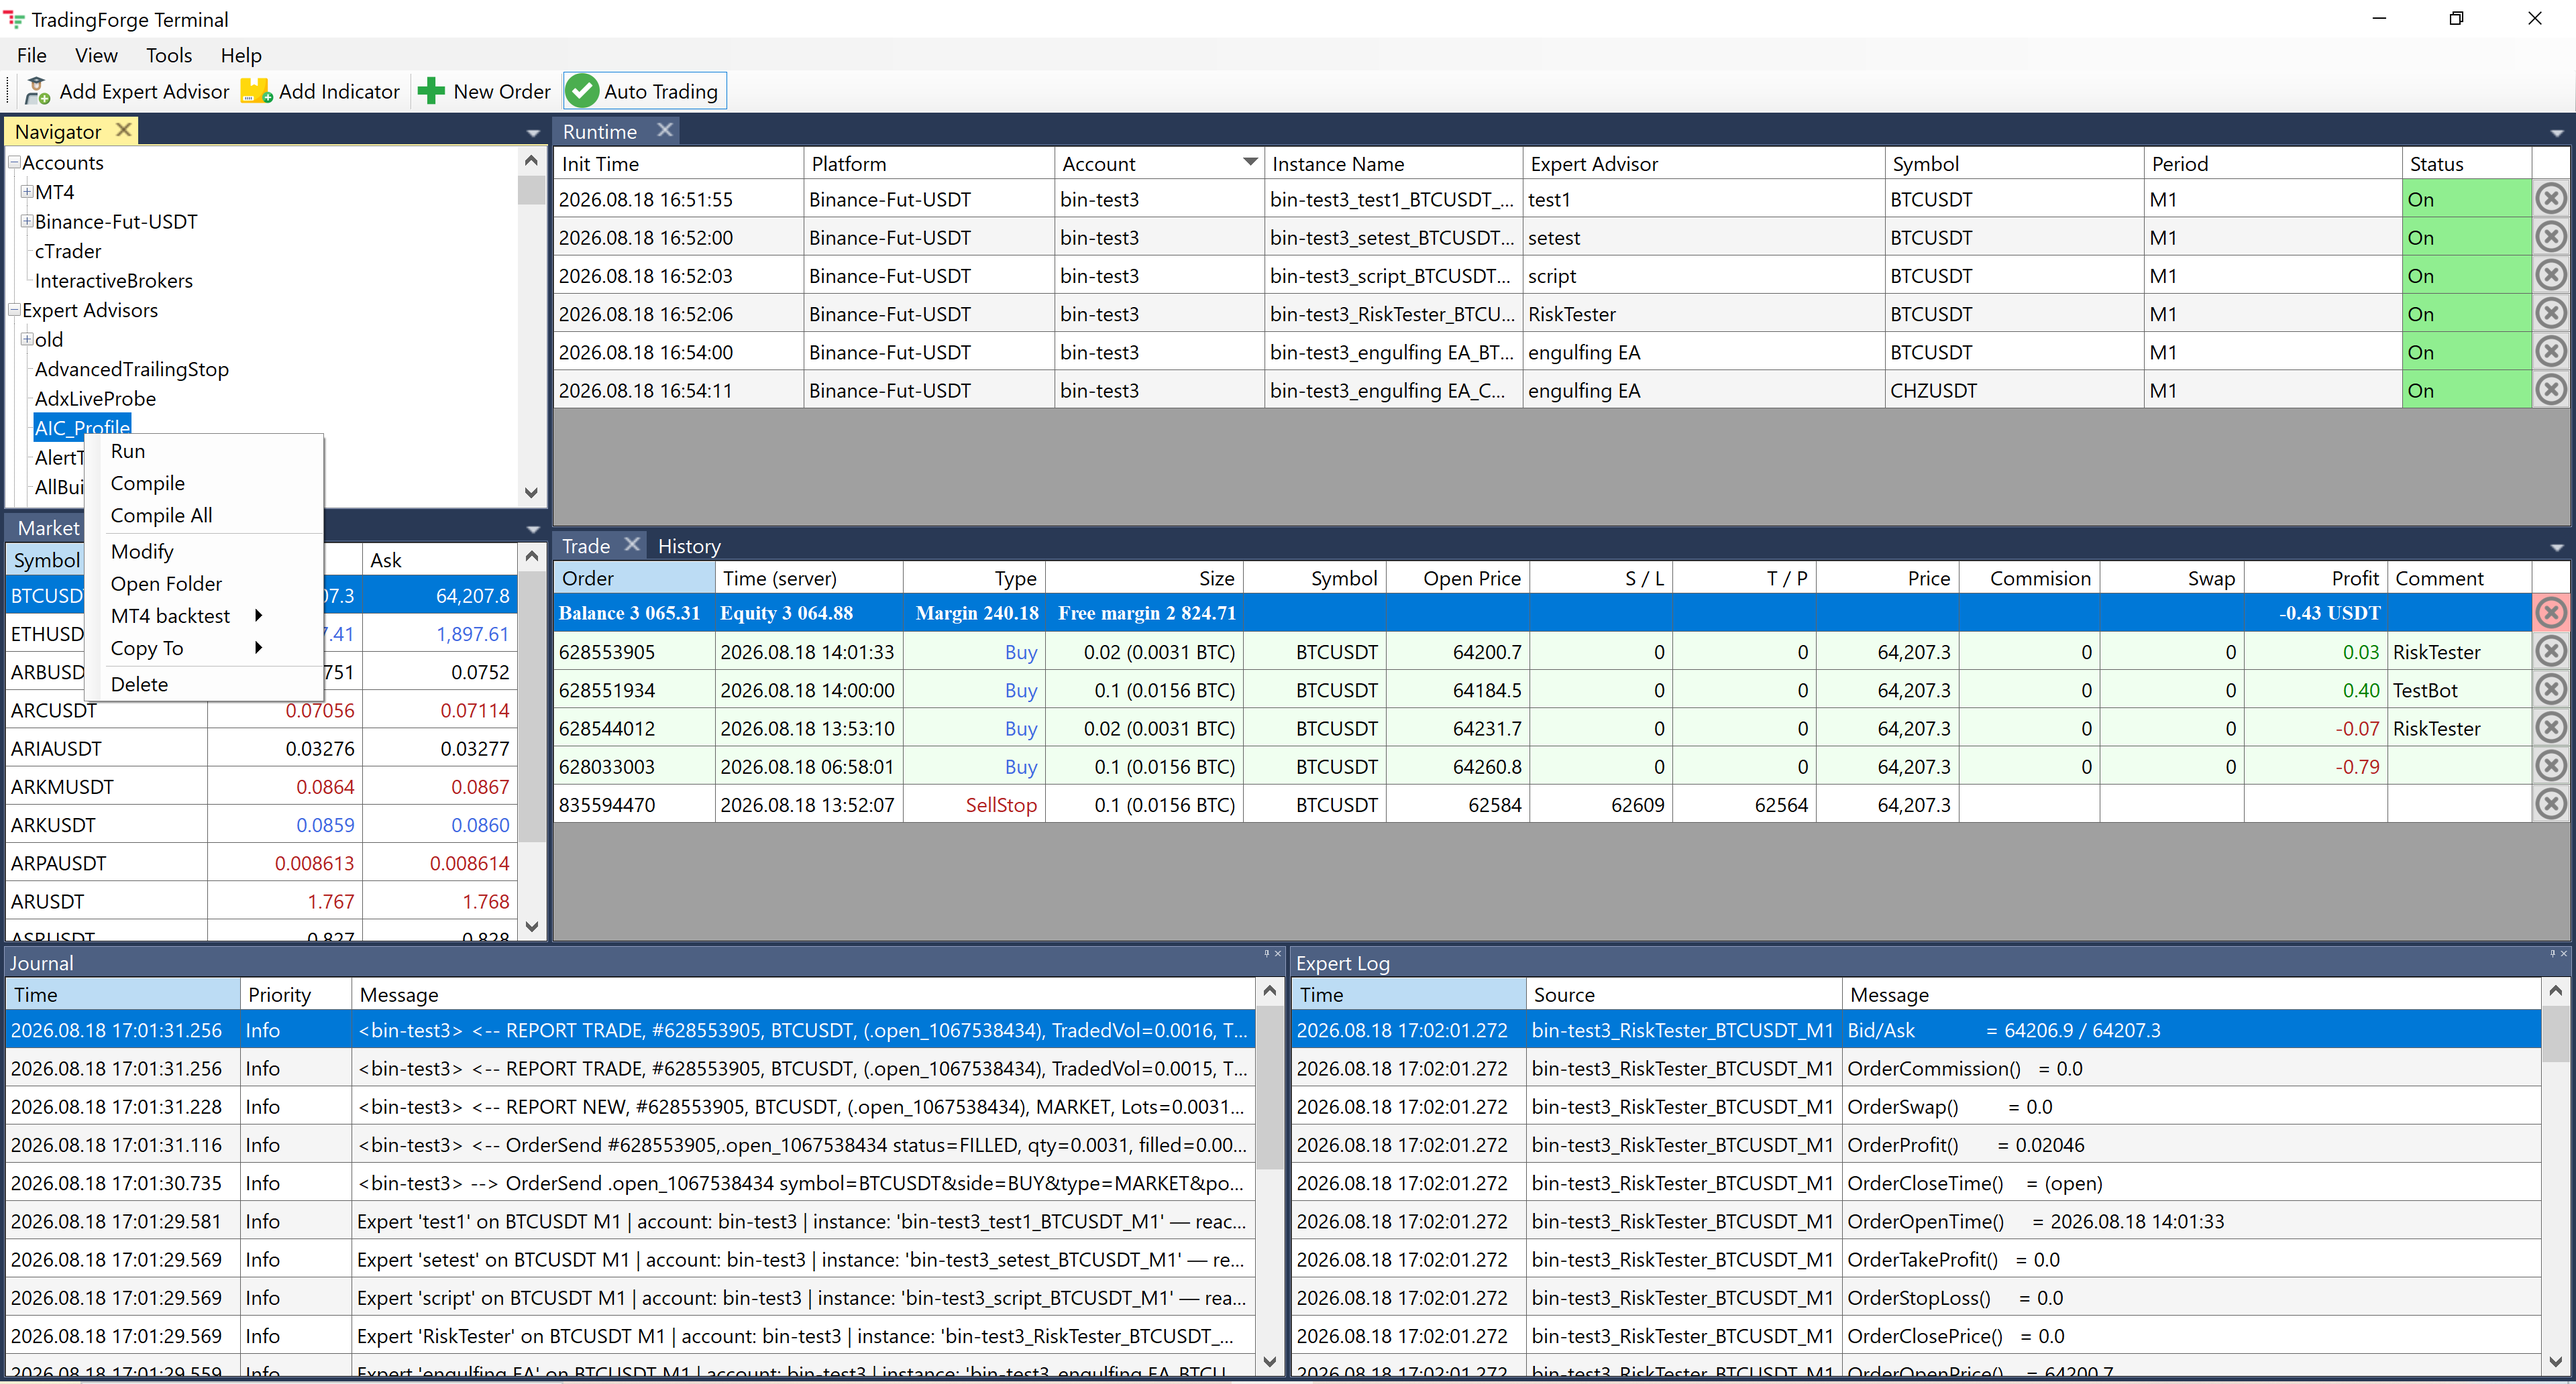
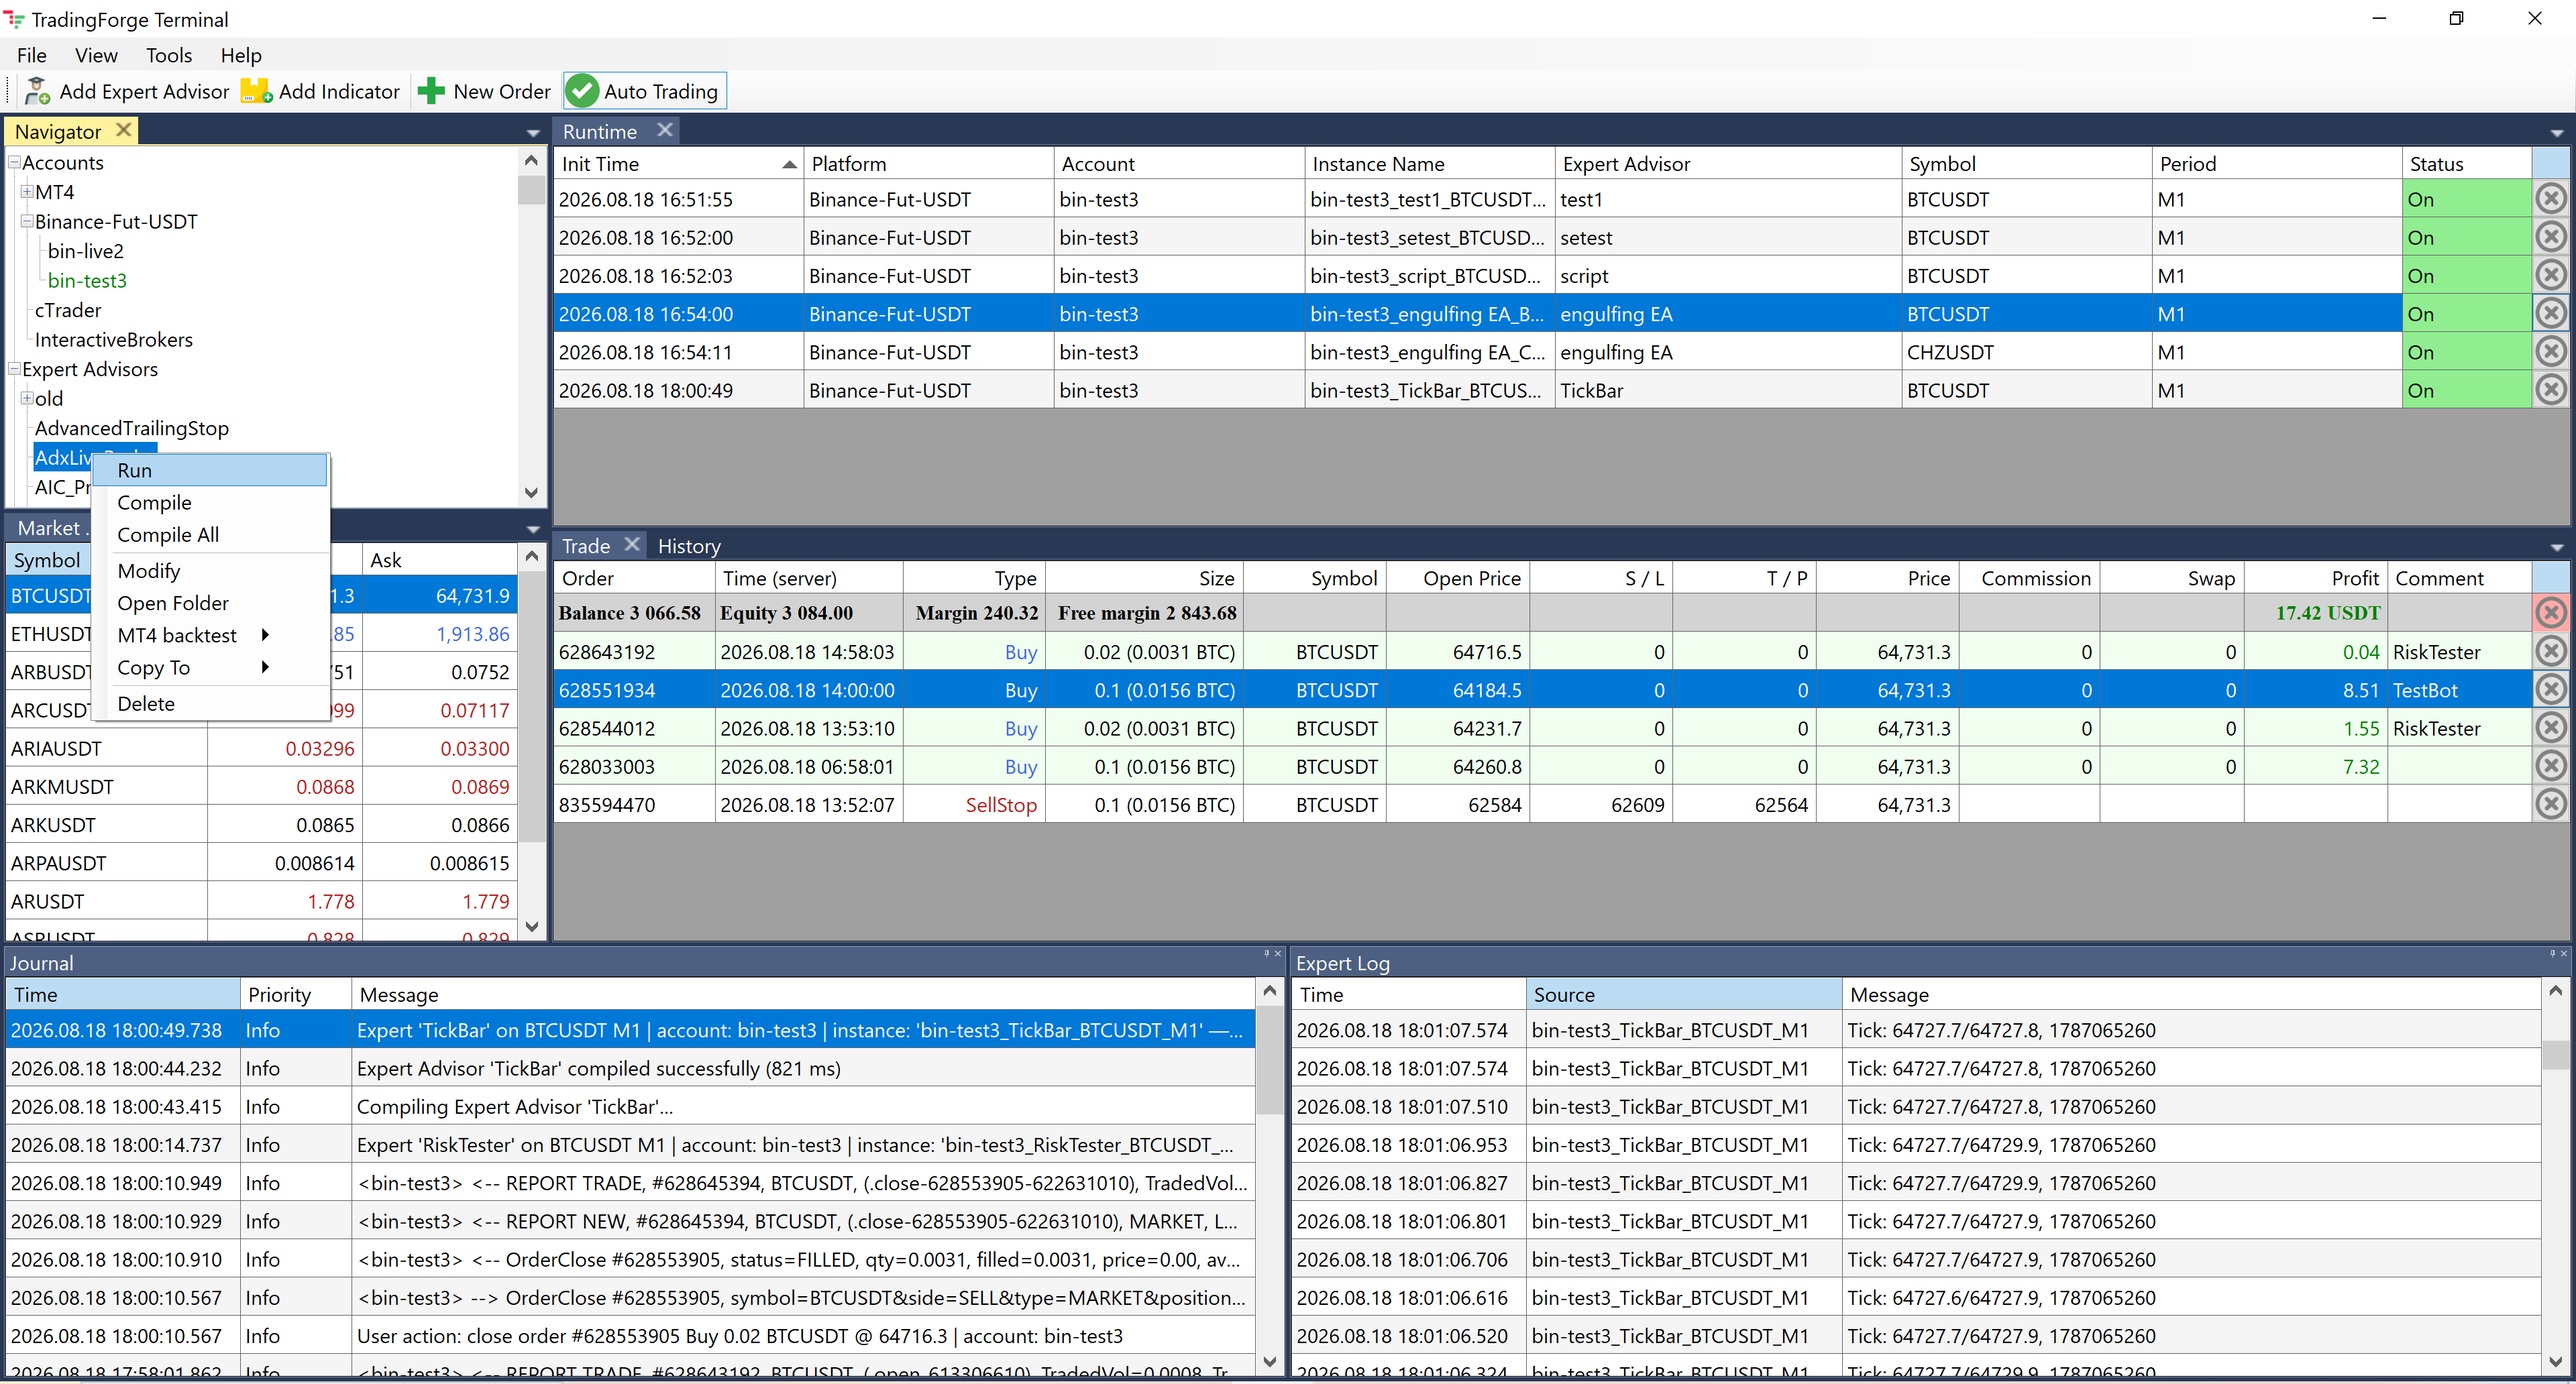
docs: update README from public-repo source

diff --git a/README.md b/README.md
@@ -3,7 +3,7 @@
      cannot be cleaned afterwards. -->
 <!-- ![TradingForge Terminal](PASTE_BANNER_URL_HERE) -->
 
-# <img src="assets/logo_mark.png" alt="" height="40" align="middle">&nbsp; TradingForge Terminal
+# TradingForge Terminal
 
 **Keep your trading script. Change everything behind it.**
 
